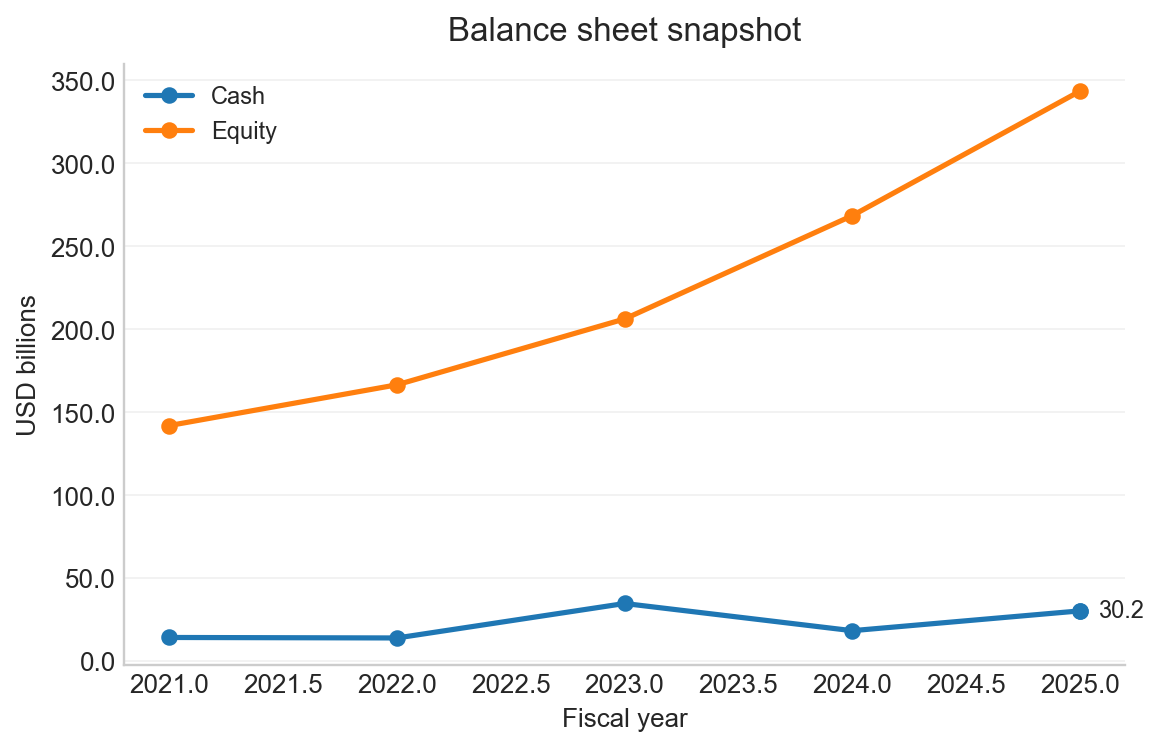
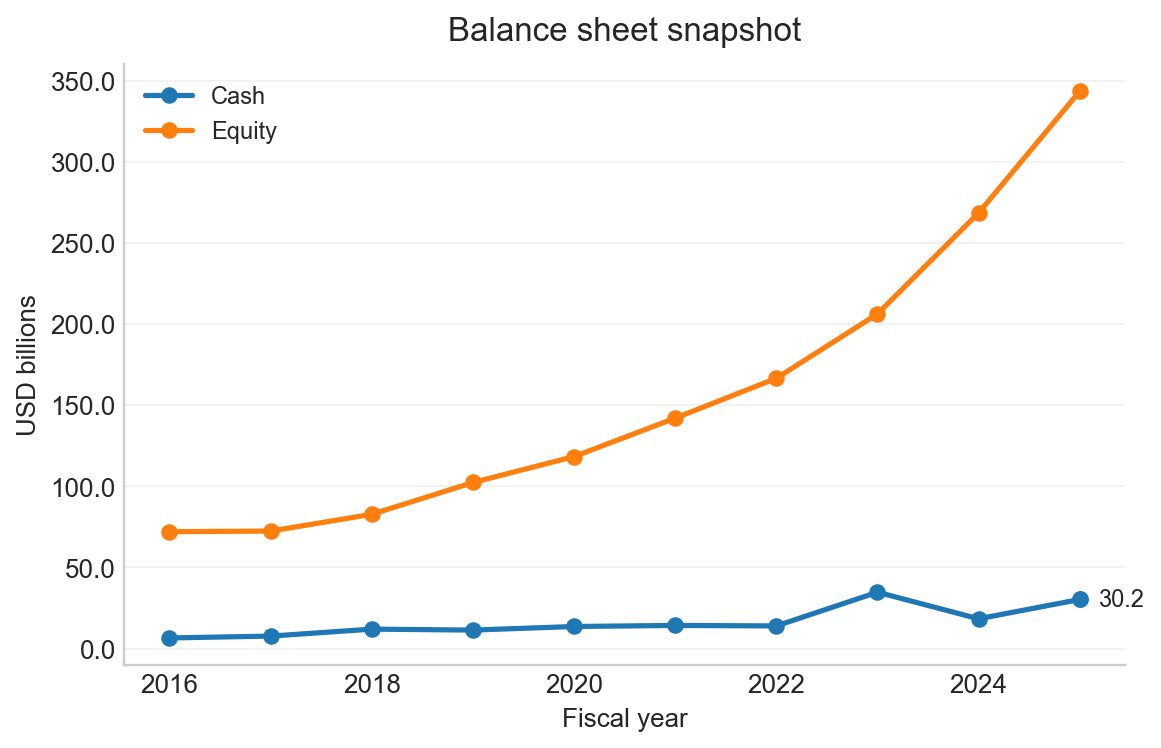
ms

diff --git a/output_reports/MSFT.md b/output_reports/MSFT.md
@@ -1,8 +1,8 @@
 # MICROSOFT CORP - MSFT Automated Financial Analysis Report
 
 - CIK: `0000789019`
-- Generated: 2026-02-12 14:16:44
-- Coverage: last 5 fiscal years
+- Generated: 2026-02-12 14:19:12
+- Coverage: last 10 fiscal years
 
 ## Highlights
 - Latest fiscal year: **FY2025** ended 2025-06-30.
@@ -24,13 +24,20 @@
 
 ## Annual Financials Table
 USD in billions for level metrics
-|   fy | fiscal_year_end   |   revenue |   gross_profit |   operating_income |   net_income |   cfo |   capex |   fcf | revenue_yoy   | gross_margin   | operating_margin   | net_margin   | fcf_margin   |   cash |   equity |
-|-----:|:------------------|----------:|---------------:|-------------------:|-------------:|------:|--------:|------:|:--------------|:---------------|:-------------------|:-------------|:-------------|-------:|---------:|
-| 2025 | 2025-06-30        |     281.7 |          193.9 |              128.5 |        101.8 | 136.2 |    64.6 |  71.6 | 14.9%         | 68.8%          | 45.6%              | 36.1%        | 25.4%        |   30.2 |    343.5 |
-| 2024 | 2024-06-30        |     245.1 |          171   |              109.4 |         88.1 | 118.5 |    44.5 |  74.1 | 15.7%         | 69.8%          | 44.6%              | 36.0%        | 30.2%        |   18.3 |    268.5 |
-| 2023 | 2023-06-30        |     211.9 |          146.1 |               88.5 |         72.4 |  87.6 |    28.1 |  59.5 | 6.9%          | 68.9%          | 41.8%              | 34.1%        | 28.1%        |   34.7 |    206.2 |
-| 2022 | 2022-06-30        |     198.3 |          135.6 |               83.4 |         72.7 |  89   |    23.9 |  65.1 | 18.0%         | 68.4%          | 42.1%              | 36.7%        | 32.9%        |   13.9 |    166.5 |
-| 2021 | 2021-06-30        |     168.1 |          115.9 |               69.9 |         61.3 |  76.7 |    20.6 |  56.1 | NA            | 68.9%          | 41.6%              | 36.5%        | 33.4%        |   14.2 |    142   |
+|   fy | fiscal_year_end   | revenue   | gross_profit   | operating_income   | net_income   | cfo   | capex   | fcf   | revenue_yoy   | gross_margin   | operating_margin   | net_margin   | fcf_margin   | cash   | equity   |
+|-----:|:------------------|:----------|:---------------|:-------------------|:-------------|:------|:--------|:------|:--------------|:---------------|:-------------------|:-------------|:-------------|:-------|:---------|
+| 2025 | 2025-06-30        | 281.7     | 193.9          | 128.5              | 101.8        | 136.2 | 64.6    | 71.6  | 14.9%         | 68.8%          | 45.6%              | 36.1%        | 25.4%        | 30.2   | 343.5    |
+| 2024 | 2024-06-30        | 245.1     | 171.0          | 109.4              | 88.1         | 118.5 | 44.5    | 74.1  | 15.7%         | 69.8%          | 44.6%              | 36.0%        | 30.2%        | 18.3   | 268.5    |
+| 2023 | 2023-06-30        | 211.9     | 146.1          | 88.5               | 72.4         | 87.6  | 28.1    | 59.5  | 6.9%          | 68.9%          | 41.8%              | 34.1%        | 28.1%        | 34.7   | 206.2    |
+| 2022 | 2022-06-30        | 198.3     | 135.6          | 83.4               | 72.7         | 89.0  | 23.9    | 65.1  | 18.0%         | 68.4%          | 42.1%              | 36.7%        | 32.9%        | 13.9   | 166.5    |
+| 2021 | 2021-06-30        | 168.1     | 115.9          | 69.9               | 61.3         | 76.7  | 20.6    | 56.1  | 17.5%         | 68.9%          | 41.6%              | 36.5%        | 33.4%        | 14.2   | 142.0    |
+| 2020 | 2020-06-30        | 143.0     | 96.9           | 53.0               | 44.3         | 60.7  | 15.4    | 45.2  | 13.6%         | 67.8%          | 37.0%              | 31.0%        | 31.6%        | 13.6   | 118.3    |
+| 2019 | 2019-06-30        | 125.8     | 82.9           | 43.0               | 39.2         | 52.2  | 13.9    | 38.3  | 14.0%         | 65.9%          | 34.1%              | 31.2%        | 30.4%        | 11.4   | 102.3    |
+| 2018 | 2018-06-30        | 110.4     | 72.0           | 35.1               | 16.6         | 43.9  | 11.6    | 32.3  | NA            | 65.2%          | 31.8%              | 15.0%        | 29.2%        | 11.9   | 82.7     |
+| 2017 | 2017-06-30        | NA        | 55.7           | 22.3               | 21.2         | NA    | 8.1     | NA    | NA            | NA             | NA                 | NA           | NA           | 7.7    | 72.4     |
+| 2016 | 2016-06-30        | NA        | 52.5           | 20.2               | 16.8         | NA    | 8.3     | NA    | NA            | NA             | NA                 | NA           | NA           | 6.5    | 72.0     |
+| 2013 | 2013-06-30        | NA        | NA             | NA                 | NA           | 28.8  | NA      | NA    | NA            | NA             | NA                 | NA           | NA           | NA     | NA       |
+| 2012 | 2012-06-30        | NA        | NA             | NA                 | NA           | 31.6  | NA      | NA    | NA            | NA             | NA                 | NA           | NA           | NA     | NA       |
 
 ## XBRL Concept Map
 

diff --git a/output_reports/index.md b/output_reports/index.md
@@ -1,7 +1,7 @@
 # Automated Financial Analysis Reports
 
-- Generated: 2026-02-12 14:16:44
-- Coverage: last 5 fiscal years
+- Generated: 2026-02-12 14:19:12
+- Coverage: last 10 fiscal years
 
 ## Reports
 
